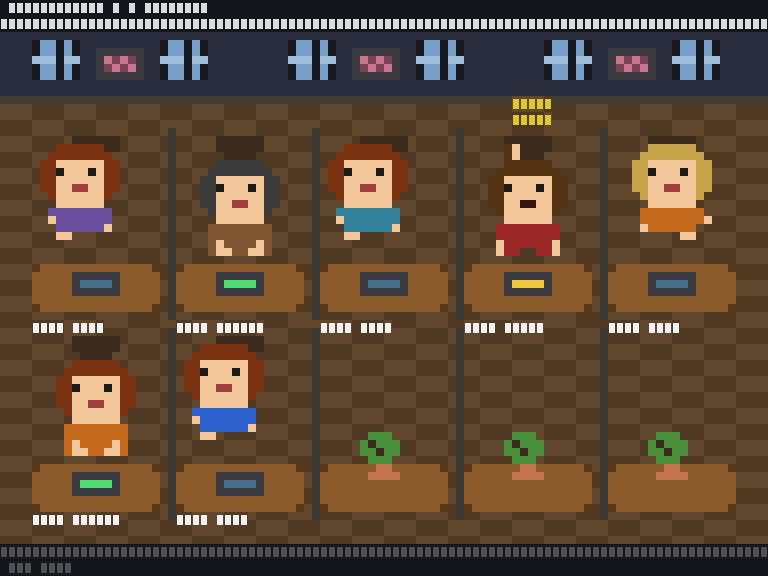
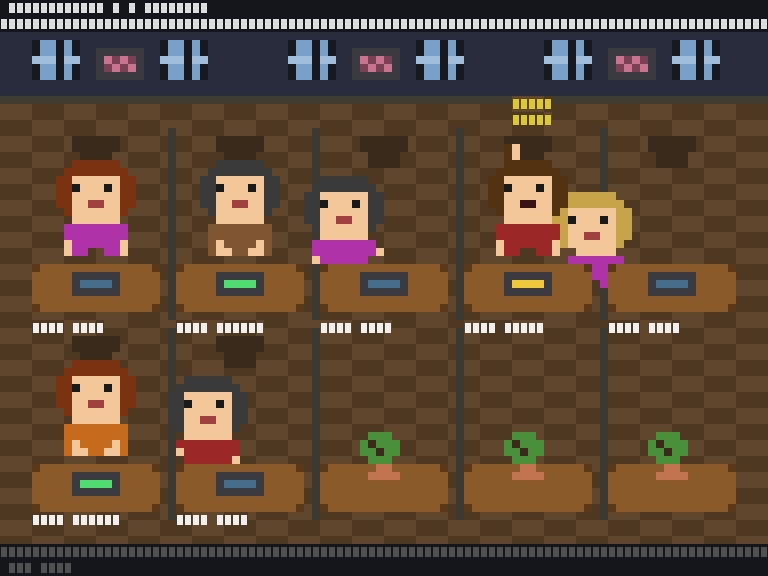
feat(tui): positional wandering — characters leave desk and walk after tasks
After ActivityEnd → Idle, character takes a real walk: leaves their desk,
heads diagonally forward to a wander spot, idles there for 2s, then walks
back. 6-second total cycle, deterministic per agent (hash → direction +
magnitude), entirely renderer-derived from time-since-idle. No changes to
the AgentSlot data shape — wander_offset() is a pure function of agent_id
and state_started_at.

- WANDER_WALK_OUT_MS=2000, WANDER_IDLE_MS=2000, WANDER_WALK_BACK_MS=2000
- Magnitude 5-10 px sideways (sign per agent), 4-8 px forward
- Uses walking sprite during locomotion, idle sprite at the wander spot
- Snapshot example now shows agents at all 3 wander phases simultaneously

This replaces the prior 'bob-at-desk' post-task animation.

diff --git a/crates/ascii-agents/src/tui/renderer.rs b/crates/ascii-agents/src/tui/renderer.rs
@@ -69,6 +69,55 @@ fn agent_shirt(seed: u64) -> Rgb {
     SHIRT_PRESETS[(seed as usize) % SHIRT_PRESETS.len()]
 }
 
+const WANDER_WALK_OUT_MS: u64 = 2000;
+const WANDER_IDLE_MS: u64 = 2000;
+const WANDER_WALK_BACK_MS: u64 = 2000;
+const WANDER_TOTAL_MS: u64 = WANDER_WALK_OUT_MS + WANDER_IDLE_MS + WANDER_WALK_BACK_MS;
+
+/// Per-agent deterministic wander offset: returns (dx, dy, in_wander, is_walking).
+/// Only fires when the slot has been Idle for less than WANDER_TOTAL_MS.
+fn wander_offset(
+    slot: &ascii_agents_core::state::AgentSlot,
+    now: std::time::Instant,
+) -> (i32, i32, bool, bool) {
+    if !matches!(slot.state, ActivityState::Idle) {
+        return (0, 0, false, false);
+    }
+    let elapsed_ms = now
+        .saturating_duration_since(slot.state_started_at)
+        .as_millis() as u64;
+    if elapsed_ms >= WANDER_TOTAL_MS {
+        return (0, 0, false, false);
+    }
+
+    let h = slot.agent_id.raw();
+    // Direction: -1 or +1 based on a bit of the hash.
+    let sign: i32 = if (h >> 4) & 1 == 0 { -1 } else { 1 };
+    // Magnitude: 5..10 px sideways.
+    let mag: i32 = 5 + ((h >> 5) % 6) as i32;
+    let target_dx = sign * mag;
+    // Forward (toward camera) 4..8 px.
+    let target_dy = 4 + ((h >> 8) % 5) as i32;
+
+    if elapsed_ms < WANDER_WALK_OUT_MS {
+        // Walking out: interpolate 0 → target.
+        let p = elapsed_ms as f32 / WANDER_WALK_OUT_MS as f32;
+        let dx = (target_dx as f32 * p) as i32;
+        let dy = (target_dy as f32 * p) as i32;
+        (dx, dy, true, true)
+    } else if elapsed_ms < WANDER_WALK_OUT_MS + WANDER_IDLE_MS {
+        // Standing at wander spot.
+        (target_dx, target_dy, true, false)
+    } else {
+        // Walking back: interpolate target → 0.
+        let phase_elapsed = elapsed_ms - WANDER_WALK_OUT_MS - WANDER_IDLE_MS;
+        let p = phase_elapsed as f32 / WANDER_WALK_BACK_MS as f32;
+        let dx = (target_dx as f32 * (1.0 - p)) as i32;
+        let dy = (target_dy as f32 * (1.0 - p)) as i32;
+        (dx, dy, true, true)
+    }
+}
+
 const SCREEN_IDLE: Rgb = Rgb(70, 110, 140);
 const SCREEN_TYPING: Rgb = Rgb(80, 220, 110);
 const SCREEN_WAITING: Rgb = Rgb(240, 200, 60);
@@ -330,20 +379,25 @@ pub fn draw_scene<B: Backend>(
             // 1. Chair (8 wide), centered behind character.
             blit_static(&mut buf, "chair", slot_x + 4, stack_top);
 
-            // 2. Character animation (10 wide, 12 tall).
-            // "Just finished" walk: if Idle was entered in the last
-            // WALK_AFTER_TASK seconds, play the walking animation with a
-            // small horizontal bob, signaling "task done, taking a breath."
-            let walk_window = std::time::Duration::from_secs(3);
-            let in_post_task_walk = matches!(slot.state, ActivityState::Idle)
-                && now.saturating_duration_since(slot.state_started_at) < walk_window;
+            // 2. Character animation with positional wander.
+            // After a task finishes the character takes a break: walks to a
+            // wander spot offset from their desk, idles there briefly, then
+            // walks back. All renderer-derived from time-since-idle.
+            let (offset_x, offset_y, in_wander, is_walking) =
+                wander_offset(slot, now);
 
-            let anim_name = match &slot.state {
-                _ if in_post_task_walk => "walking",
-                ActivityState::Idle => "idle",
-                ActivityState::Active { .. } => "typing",
-                ActivityState::Waiting { .. } => "waiting",
+            let anim_name: &str = if in_wander && is_walking {
+                "walking"
+            } else if in_wander {
+                "idle"
+            } else {
+                match slot.state {
+                    ActivityState::Idle => "idle",
+                    ActivityState::Active { .. } => "typing",
+                    ActivityState::Waiting { .. } => "waiting",
+                }
             };
+
             if let Some(anim) = pack.animation(anim_name).or_else(|| pack.animation("idle")) {
                 let idx = frame_index_at(
                     slot.state_started_at,
@@ -353,23 +407,20 @@ pub fn draw_scene<B: Backend>(
                 );
                 let frame = &anim.frames[idx];
                 let frame_rc = recolor_frame(frame, &pack.palette, shirt, hair);
-                let char_y = if matches!(slot.state, ActivityState::Waiting { .. }) {
-                    // Waiting sprite is 14 tall (raised arm above head) — shift up.
-                    stack_top.saturating_add(1)
-                } else if in_post_task_walk {
-                    // Stand up out of chair while walking.
-                    stack_top + 1
+
+                let base_x = slot_x as i32 + 3;
+                // Waiting sprite is 14 tall (raised arm) — shift up.
+                let base_y = if matches!(slot.state, ActivityState::Waiting { .. }) {
+                    stack_top.saturating_add(1) as i32
+                } else if in_wander {
+                    // Stand out of chair while wandering.
+                    (stack_top + 1) as i32
                 } else {
-                    stack_top + 3
+                    (stack_top + 3) as i32
                 };
-                let char_x = if in_post_task_walk {
-                    // Oscillate ±2 px around the slot center.
-                    let ms = now.saturating_duration_since(slot.state_started_at).as_millis() as i32;
-                    let bob = ((ms / 200) % 4) - 2; // -2, -1, 0, 1 ... loops
-                    (slot_x as i32 + 3 + bob).max(0) as u16
-                } else {
-                    slot_x + 3
-                };
+
+                let char_x = (base_x + offset_x).max(0) as u16;
+                let char_y = (base_y + offset_y).max(0) as u16;
                 blit_frame(&frame_rc, char_x, char_y, &mut buf);
             }
 

diff --git a/crates/ascii-agents/examples/snapshot.rs b/crates/ascii-agents/examples/snapshot.rs
@@ -56,7 +56,9 @@ fn main() -> Result<()> {
 fn sample_scene(now: Instant) -> SceneState {
     let mut s = SceneState::new(12);
     let agents = [
-        ("idle", ActivityState::Idle, Duration::from_millis(0)),
+        // 'state_started_at' is set to `now - offset` so we can place each
+        // agent at different points in the wander cycle.
+        ("seated", ActivityState::Idle, Duration::from_millis(10_000)),
         (
             "typing-rs",
             ActivityState::Active {
@@ -66,7 +68,8 @@ fn sample_scene(now: Instant) -> SceneState {
             },
             Duration::from_millis(60),
         ),
-        ("idle2", ActivityState::Idle, Duration::from_millis(0)),
+        // Mid walk-out — should be partly toward wander spot.
+        ("walk-out", ActivityState::Idle, Duration::from_millis(1200)),
         (
             "waiting",
             ActivityState::Waiting {
@@ -74,8 +77,8 @@ fn sample_scene(now: Instant) -> SceneState {
             },
             Duration::from_millis(0),
         ),
-        // Just finished a task — within the 3s walking window.
-        ("just-done", ActivityState::Idle, Duration::from_millis(400)),
+        // Standing at the wander spot.
+        ("at-spot", ActivityState::Idle, Duration::from_millis(3000)),
         (
             "typing-py",
             ActivityState::Active {
@@ -85,7 +88,8 @@ fn sample_scene(now: Instant) -> SceneState {
             },
             Duration::from_millis(280),
         ),
-        ("idle4", ActivityState::Idle, Duration::from_millis(0)),
+        // Walking back to seat.
+        ("walk-back", ActivityState::Idle, Duration::from_millis(5000)),
     ];
     for (i, (key, state, offset)) in agents.iter().enumerate() {
         let id = AgentId::from_transcript_path(&format!("/demo/{key}.jsonl"));